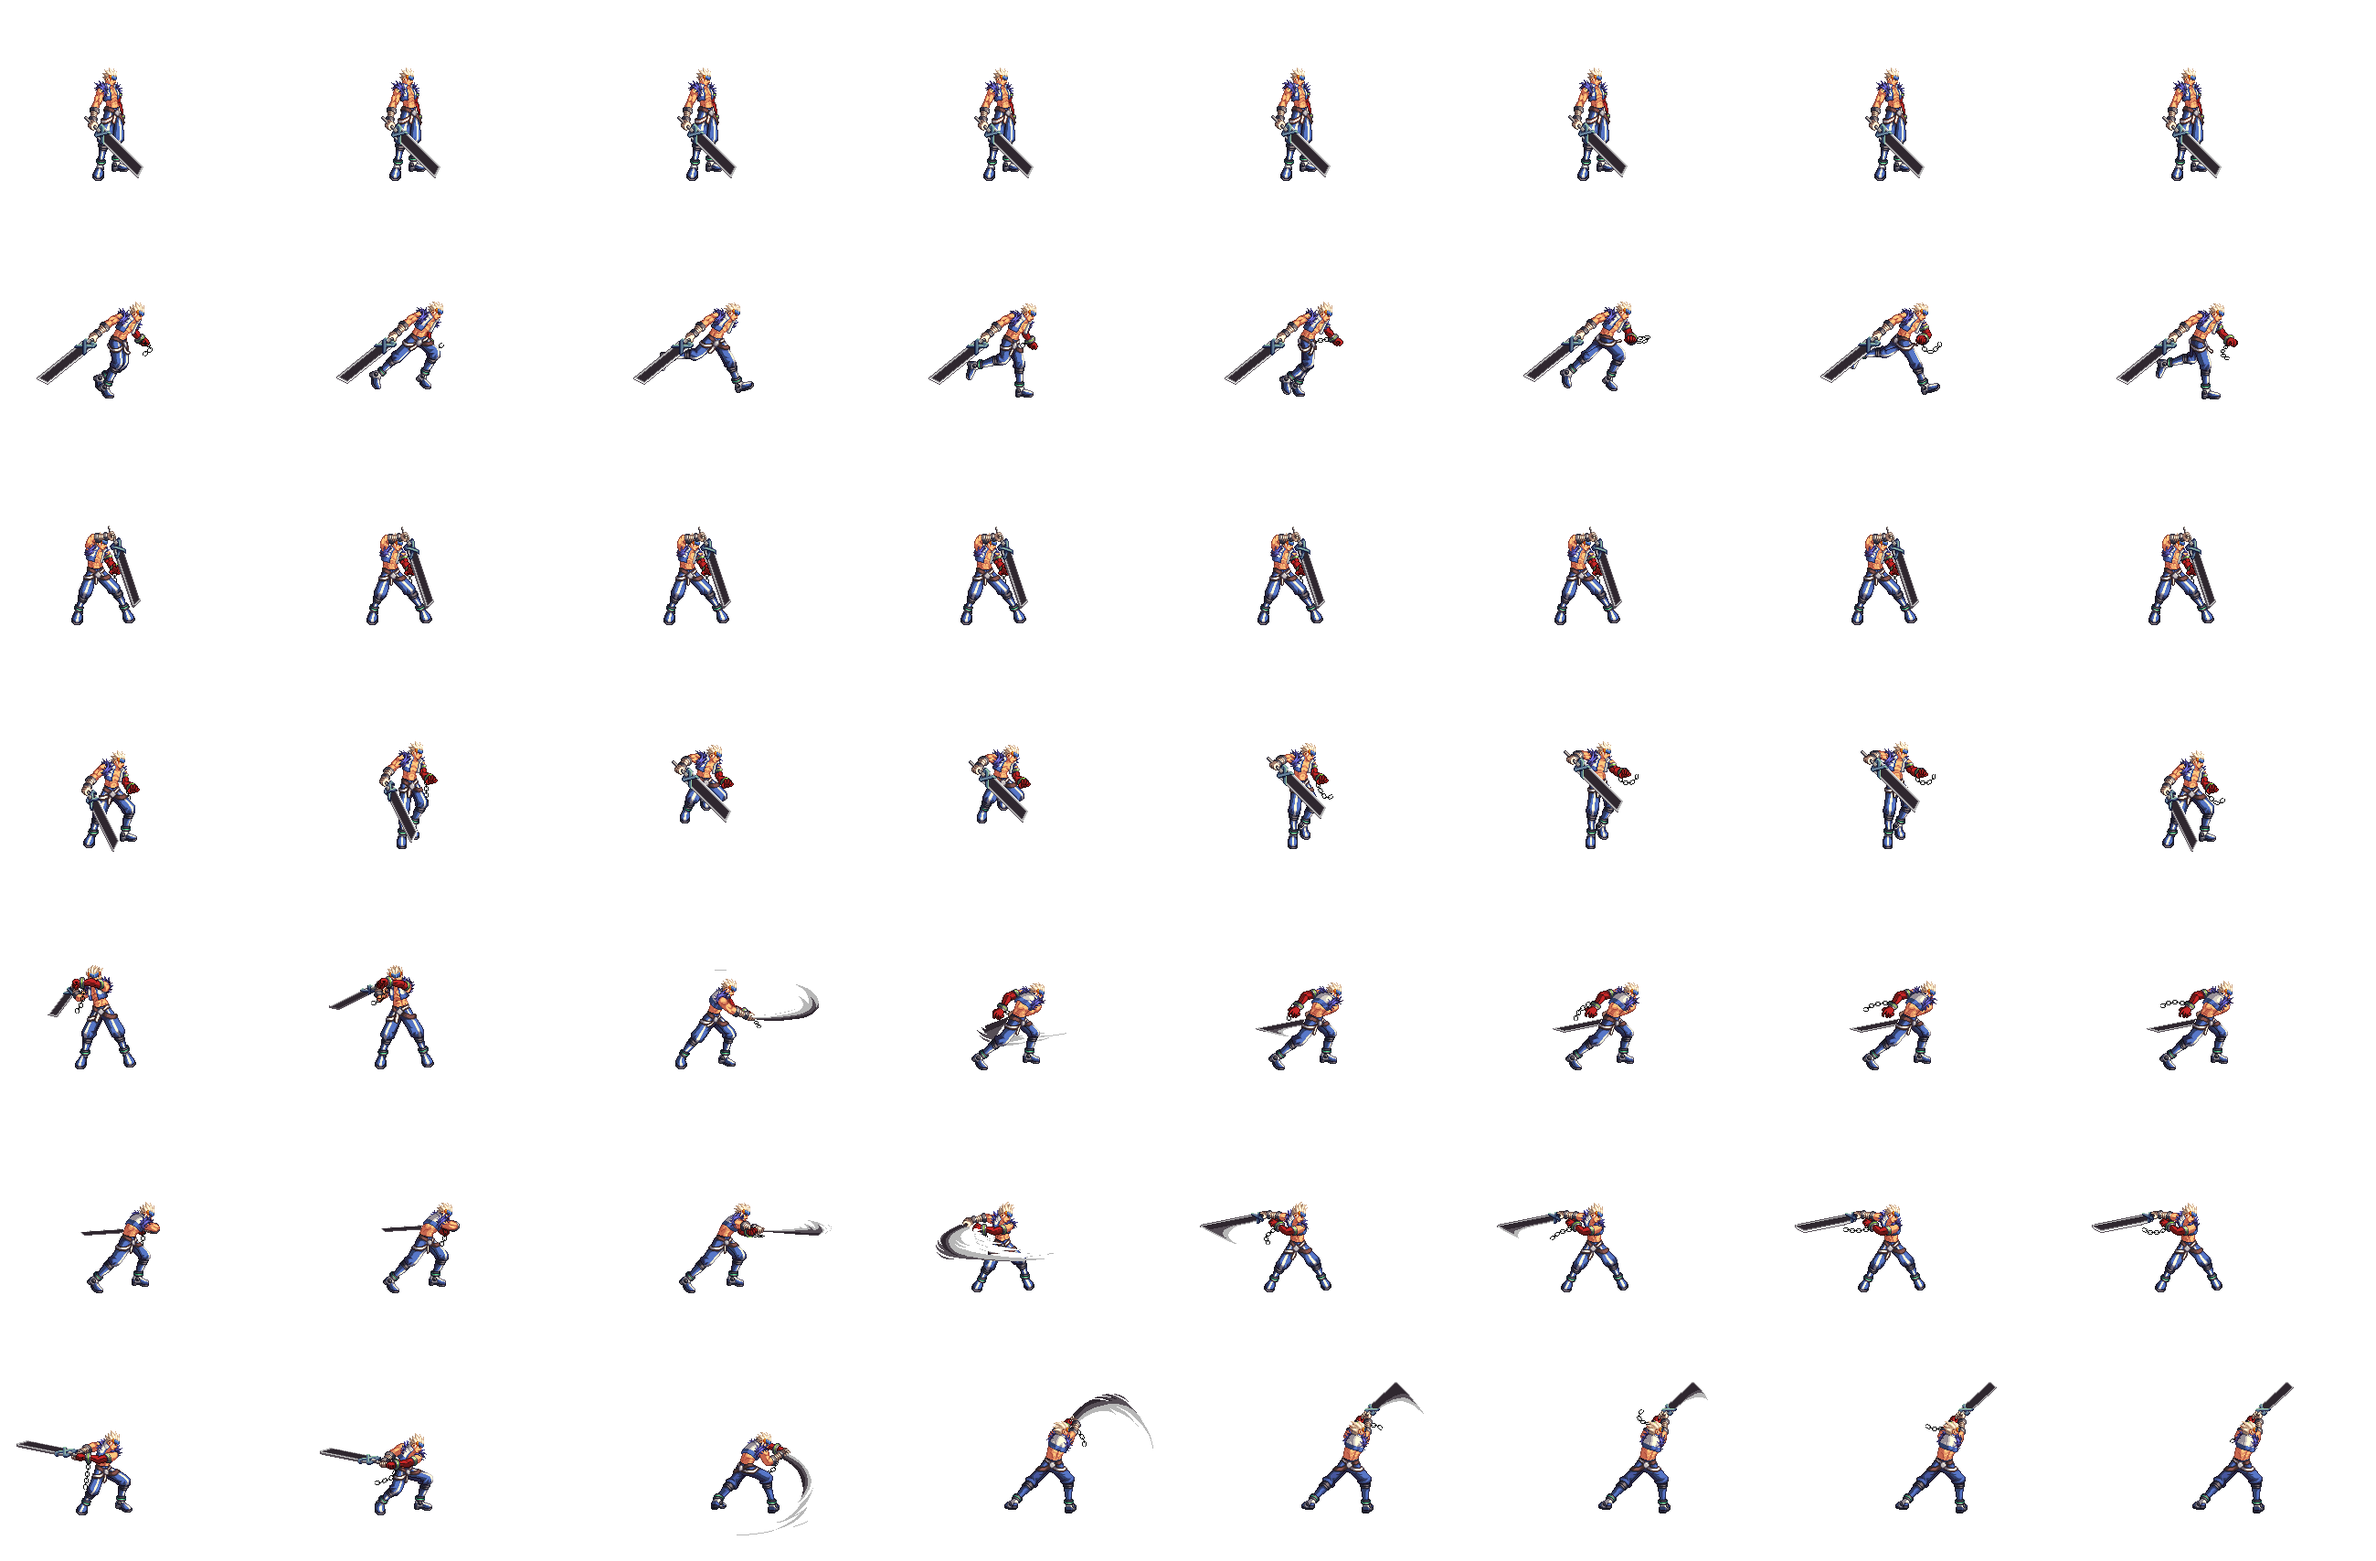
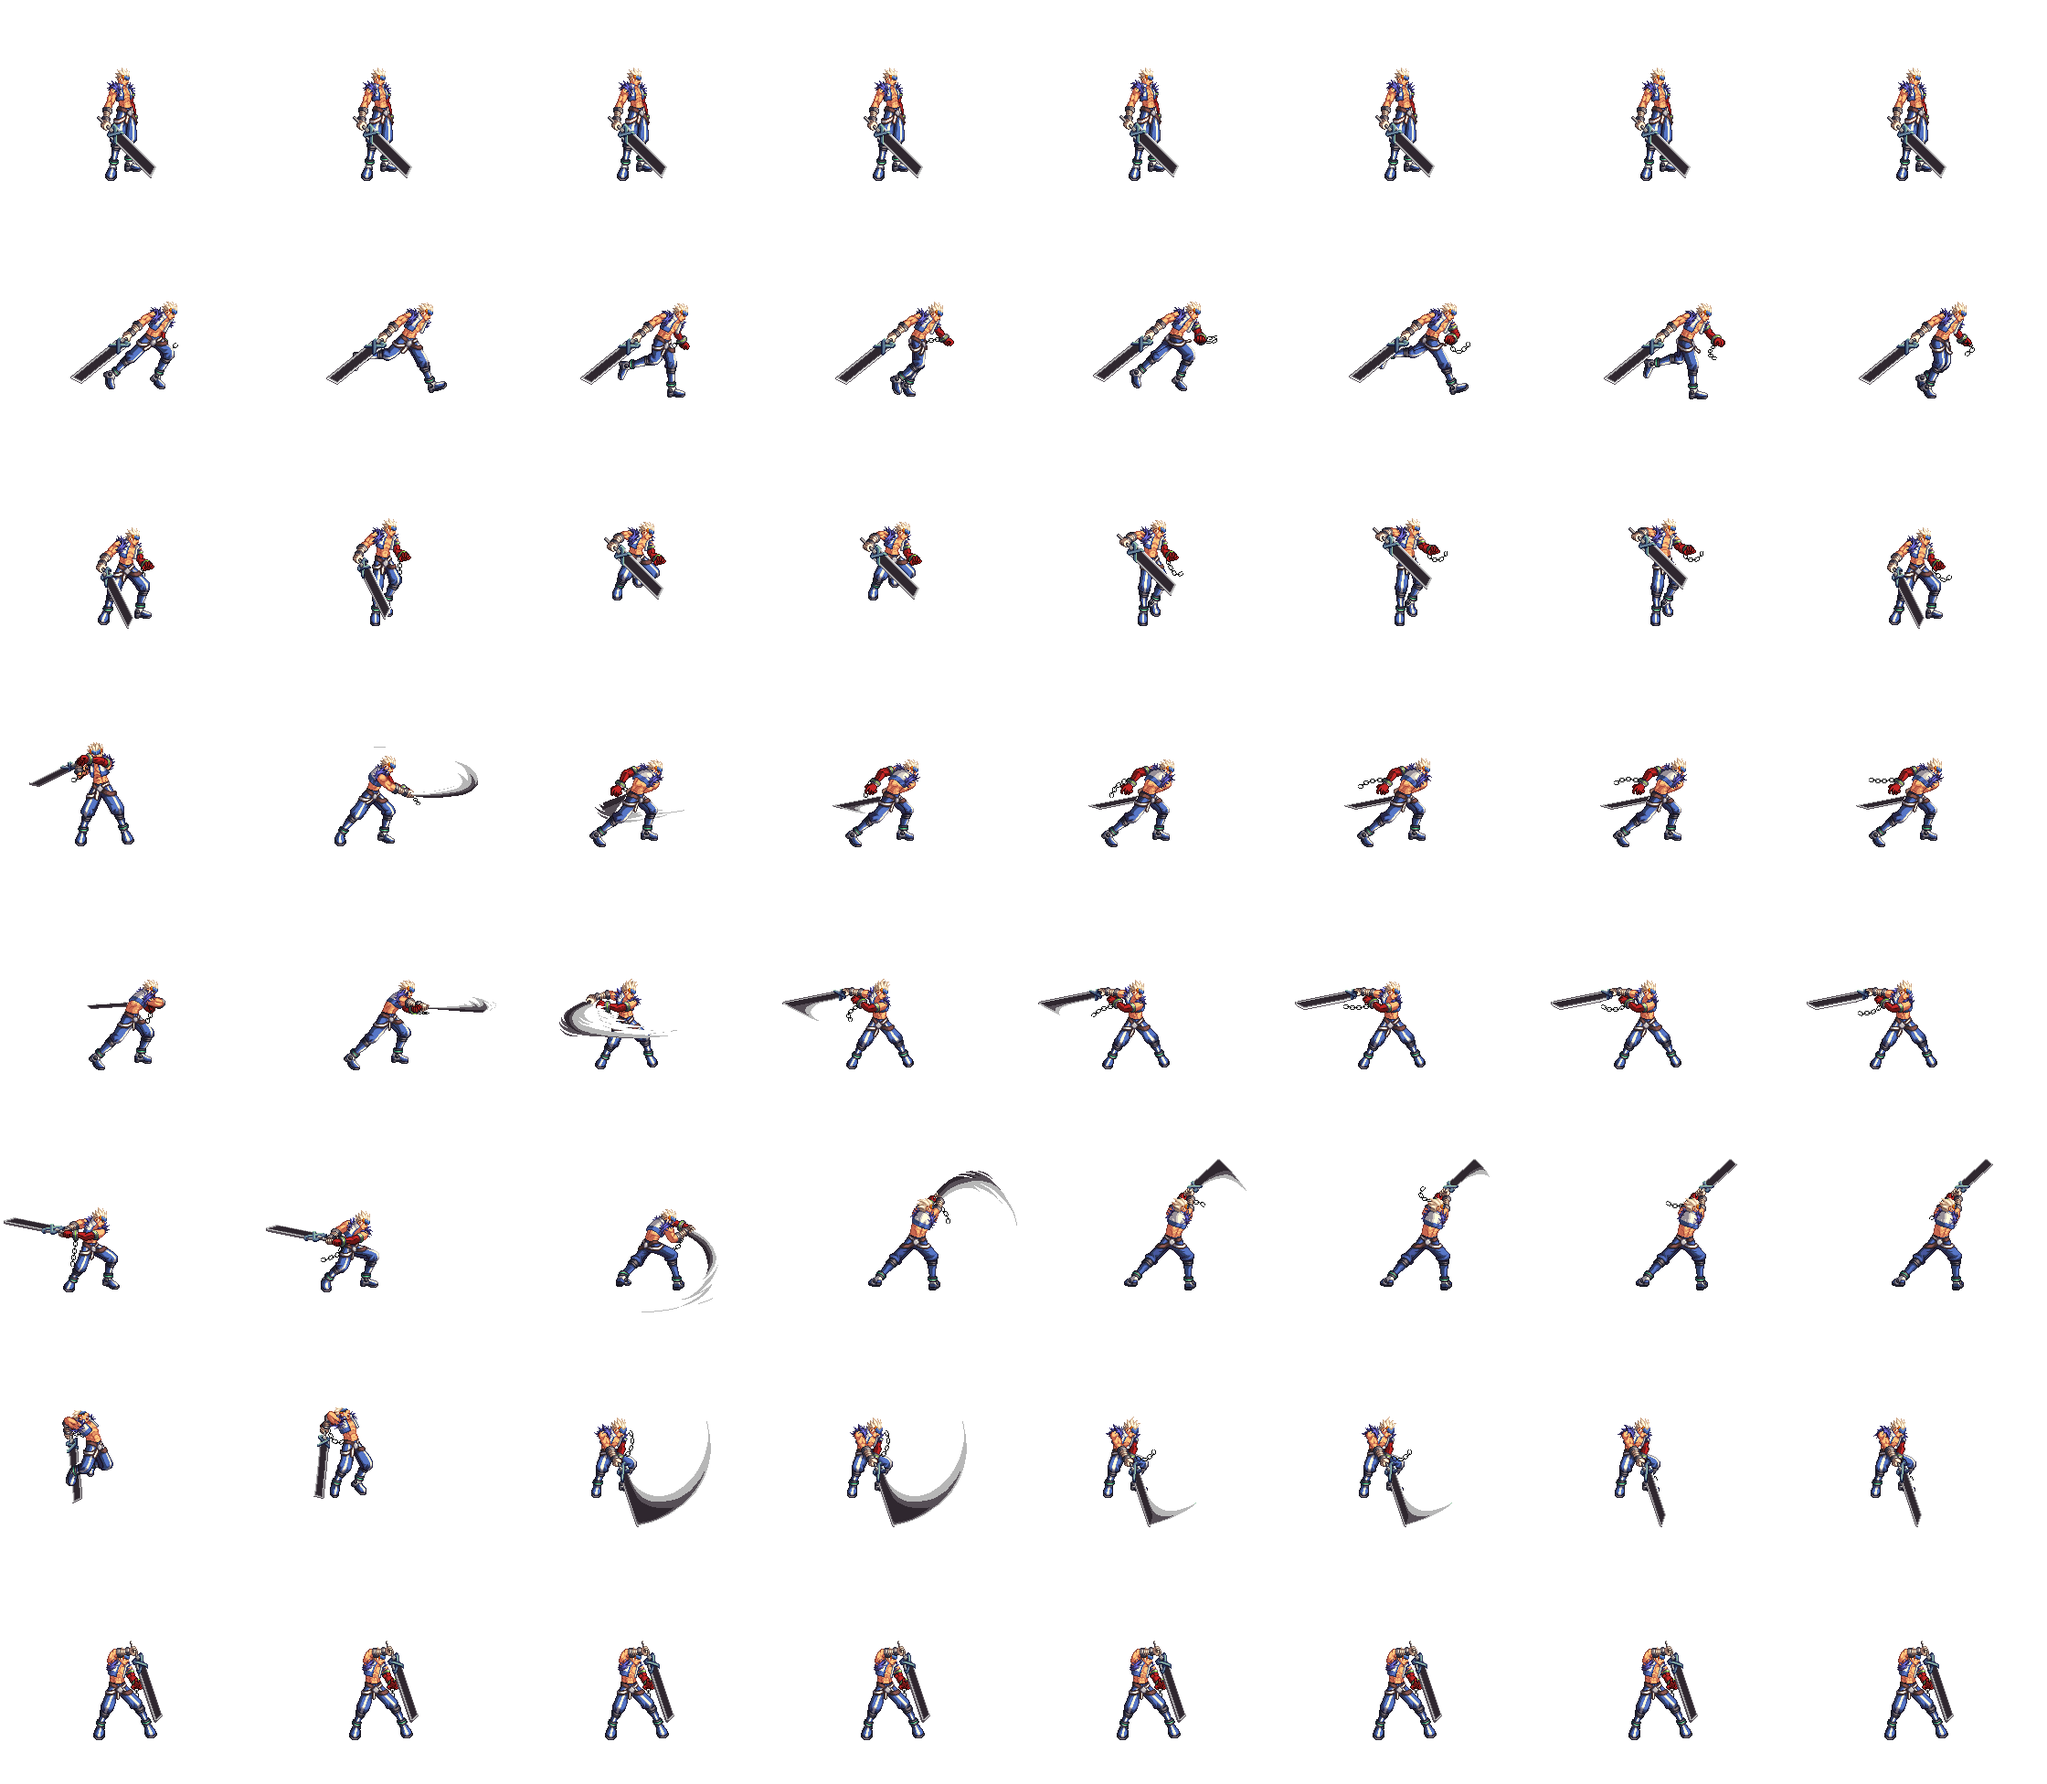
FinalsProject-Update1021
캐릭터 모션 추가
조작법 변경

diff --git a/src/Game.cpp b/src/Game.cpp
@@ -6,6 +6,8 @@
 //정적멤버변수정의
 Game* Game::s_pInstance = 0;
 
+
+
 bool Game::init(const char* title, int xpos, int ypos, int height, int width, int flags) {
 
 
@@ -36,13 +38,14 @@ bool Game::init(const char* title, int xpos, int ypos, int height, int width, in
 	{
 		return false;
 	}
-	if (!TheTextureManager::Instance()->load("Assets/char.png", "Char", m_pRenderer))
+	if (!TheTextureManager::Instance()->load("Assets/Charac.png", "Charactor", m_pRenderer))
 	{
 		return false;
 	} 
 	
 	m_gameObjects.push_back(new Background(new LoaderParams(0, 0, 2048, 600, "Background")));
-	m_gameObjects.push_back(new Player(new LoaderParams(100, 270, 280, 244, "Char")));
+	m_gameObjects.push_back(new Player(new LoaderParams(100, 270, 280, 244, "Charactor")));
+
 
 	m_bRunning = true; //true 로 변경 후 정상 실행중 전환
 	return true;
@@ -58,6 +61,7 @@ void Game::update() {
 	{
 		m_gameObjects[i]->update();
 	}
+	
 	
 }
 

diff --git a/include/Player.h b/include/Player.h
@@ -2,16 +2,28 @@
 #include "SDLGameObject.h"
 
 //SDL 을 상속받도록 수정
+
+
 class Player : public SDLGameObject
 {
-
 public:
 
+
+    
     Player(const LoaderParams* pParams);
     void handleInput();
     virtual void draw();
     virtual void update();
     virtual void clean();
+    
 
+private:
+    float gravity = 0.2f;
+    float fallspped = -5.0f;
+    float jumpforce = 5.0f;
+    float curjumpforce = 0.0;
+    float deltatime;
+    enum charstate { idle, run, attack, upper, dash , jumpattack, jump, guard };
+    charstate cha = idle;
 };
 

diff --git a/src/main.cpp b/src/main.cpp
@@ -5,6 +5,7 @@
 #include "Game.h"
 
 Game* g_game = 0;
+
 const int FPS = 60;
 const int DELAY_TIME = 1000.0f / FPS;
 
@@ -21,6 +22,7 @@ int main(int argc, char* argv[]) {
             frameTime = SDL_GetTicks() - frameStart;  // step 2
             if (frameTime < DELAY_TIME) {
                 SDL_Delay((int)(DELAY_TIME - frameTime)); // step 3
+                
             }
         }
         TheGame::Instance()->clean();

diff --git a/include/Game.h b/include/Game.h
@@ -7,8 +7,6 @@
 #include "Background.h"
 class Game {
 
-	
-
 public:
 	std::vector<GameObject*> m_gameObjects;
 
